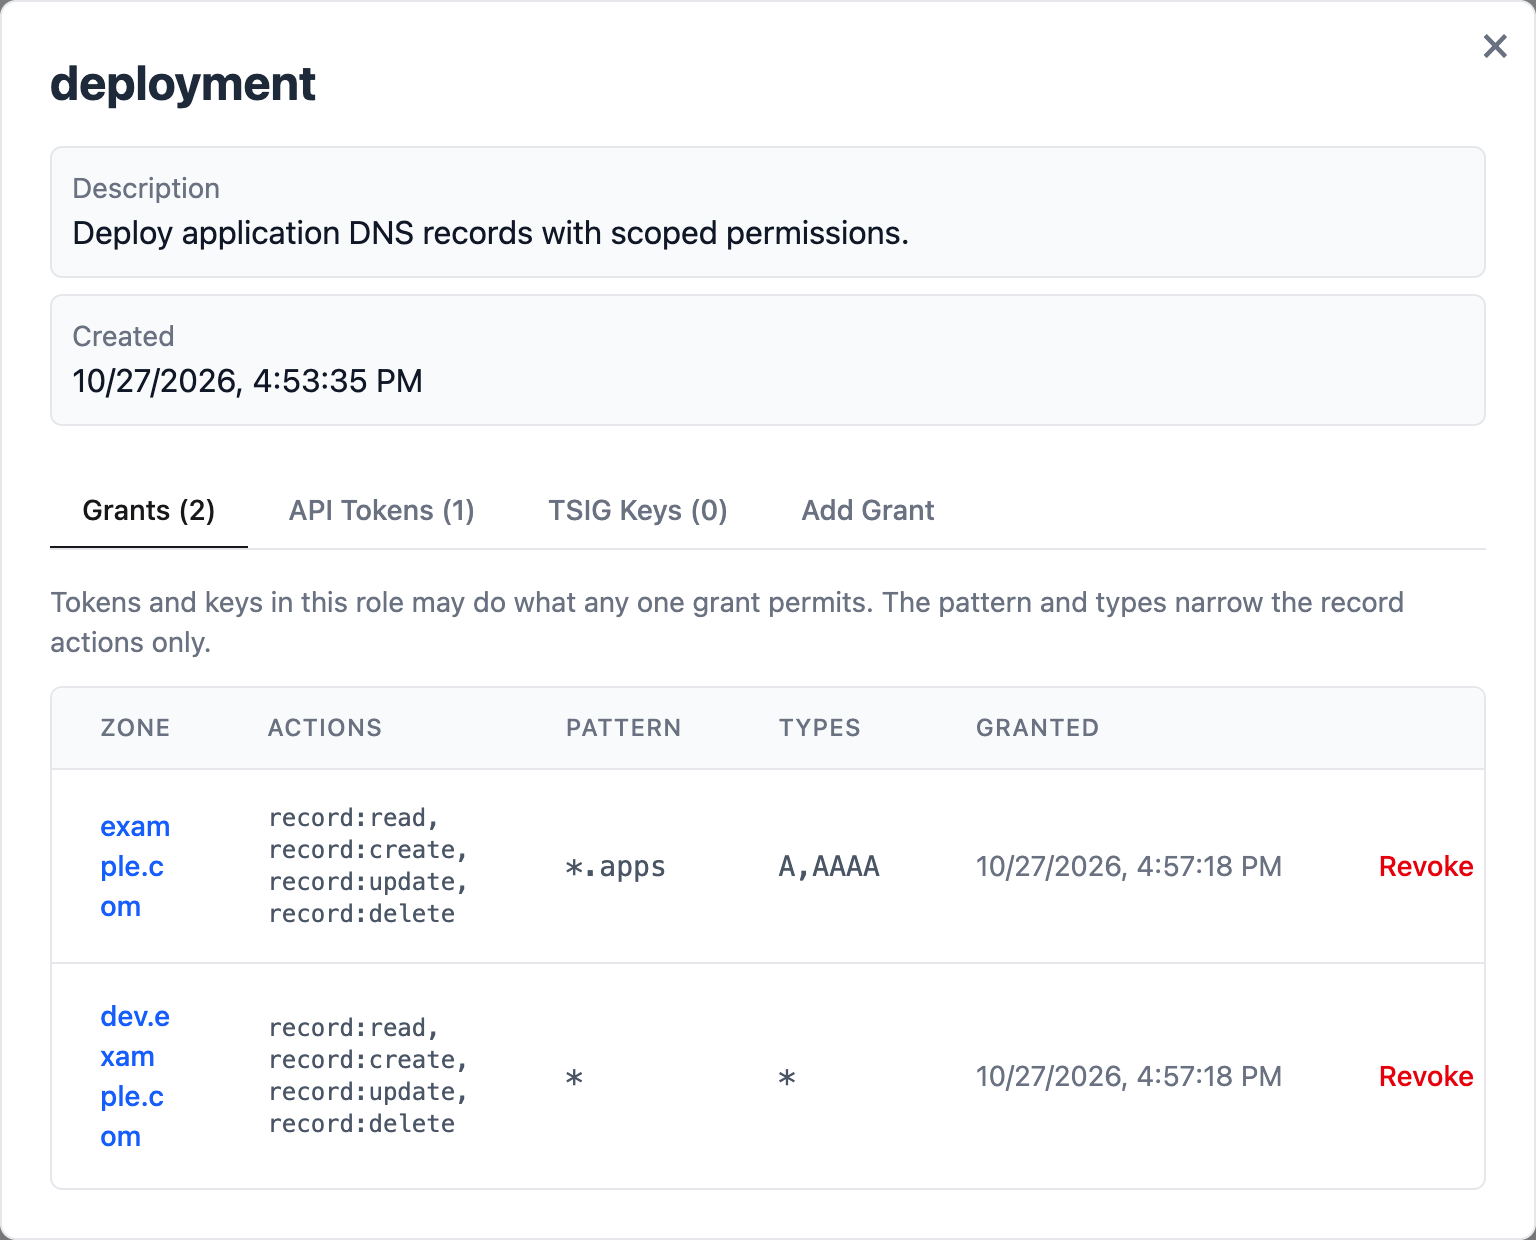
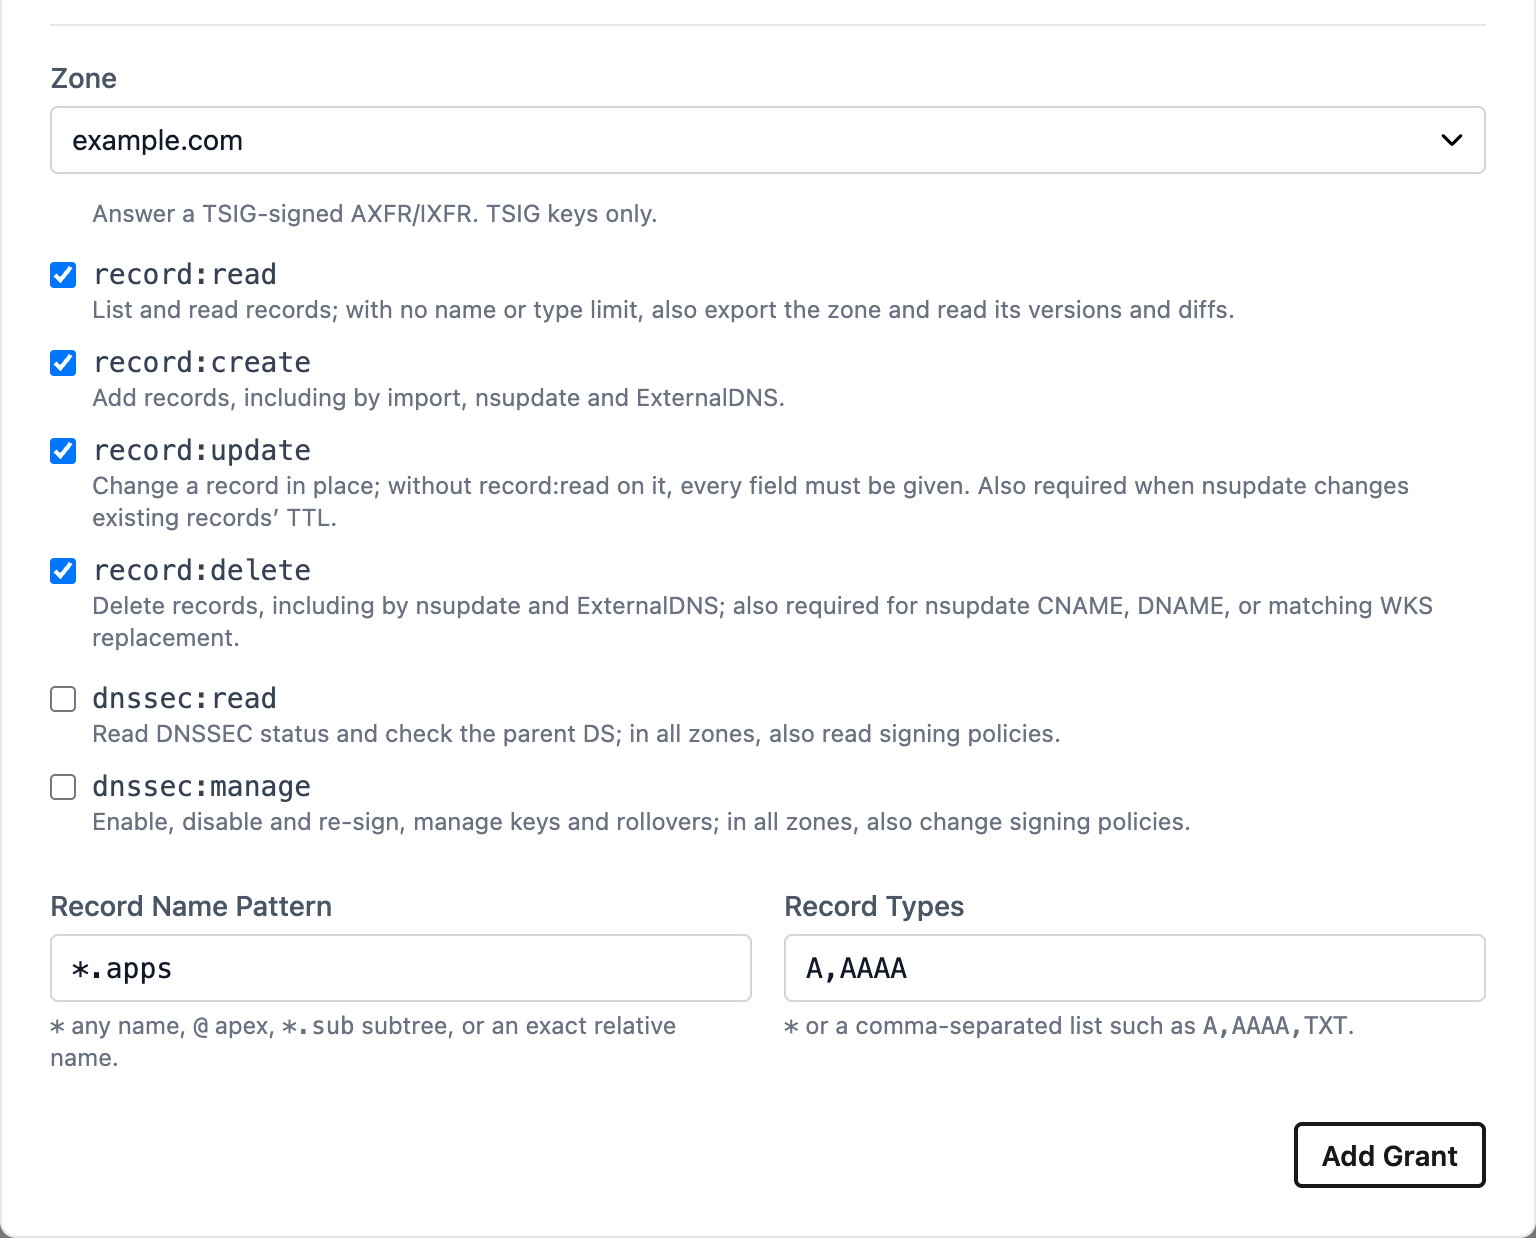
docs: guide role setup and credential management

diff --git a/README.md b/README.md
@@ -12,25 +12,25 @@
     </a>
 </p>
 
-A web interface for managing DNS zones, records, DNSSEC, and access permissions with [Bindizr](https://github.com/kweonminsung/bindizr).
+A web interface for [Bindizr](https://github.com/kweonminsung/bindizr): manage DNS zones and records, sign and synchronize zones, and delegate access through roles.
 
-[Features](#features) · [Run with Docker](#run-with-docker) · [Getting Started](#getting-started)
+[Features](#features) · [Roles and credentials](#roles-and-credentials) · [Audit log](#audit-log) · [Run with Docker](#run-with-docker) · [Getting Started](#getting-started)
 
 <img src="public/screenshots/zones.png" alt="Zone list with DNSSEC and disabled badges, search, filters, and record, import, and export actions" width="1000" />
 
 ## Features
 
-Screenshots show a running instance with example data.
+Work with DNS data in **Zones** and **Records**, then manage signing in **DNSSEC** and propagation in **Secondaries**. Use [roles](#roles-and-credentials) to delegate these operations and the [audit log](#audit-log) to review administrative changes. Screenshots show a running instance with example data.
 
 ### Zone and record management
 
-Create and edit zones and records, configure SOA settings and TTLs, and inspect generated DNSSEC records. Search, filter, and sort listings by zone, record type, and other fields.
+Create zones, configure their SOA settings, and manage records and TTLs. Search, filter, and sort the listings, or include generated DNSSEC records when inspecting a signed zone.
 
 <img src="public/screenshots/records.png" alt="Records for example.com, including IPv4, IPv6, mail, TXT, and alias records, with zone and type filters" width="1000" />
 
 ### Zone import and export
 
-Import BIND zone files or transfer records over AXFR using **append**, **upsert**, or **replace**, with dry-run validation, one zone at a time or every zone a server lists or its catalog zone names. Copy or download exports, optionally including DNSSEC records.
+Bring in a BIND zone file, a zone over AXFR, or multiple zones from a server or catalog. Validate **append**, **upsert**, or **replace** imports before applying them, and copy or download exports with or without DNSSEC records.
 
 <img src="public/screenshots/import-preview.png" alt="A dry-run zone import validating three new records without applying changes" width="384" />
 
@@ -42,51 +42,72 @@ Review changes by SOA serial and author, compare record differences, and preview
 
 ### DNSSEC signing and policies
 
-See every signed zone's state at a glance, apply reusable signing policies, monitor signatures, and manage key rollovers. Copy DS records for the parent zone, check their publication, or trigger re-signing.
+Use the DNSSEC overview to check signed zones, then open a zone to inspect its signatures and keys. Apply reusable signing policies, manage rollovers, and copy or check the DS records published by the parent zone.
 
 <img src="public/screenshots/dnssec.png" alt="DNSSEC status for example.com with signature counts, expiry, next re-signing time, and a DS record to copy" width="560" />
 
-### Roles, API tokens and zone permissions
+### Secondary synchronization
 
-Group permissions into roles: grant actions such as `record:create` or `zone:transfer` in one zone or all zones, narrowing record actions by record-name pattern and record type. API tokens, with optional expiry, act under the role they are created in.
-
-<img src="public/screenshots/role-grants.png" alt="A deployment role with record permissions scoped to example.com and dev.example.com, held by one API token" width="560" />
-
-### TSIG keys for updates and transfers
-
-Generate or import TSIG keys for dynamic updates or zone transfers, each acting under a role, and reveal or copy existing secrets when needed.
-
-<img src="public/screenshots/tsig-key-role.png" alt="A TSIG key with its secret masked and permissions inherited from the zone-transfers role" width="560" />
-
-### Secondaries
-
-Register the servers Bindizr feeds by name and address. Pause one without forgetting it, and pick a TSIG key to sign the NOTIFY it receives.
+Register secondary servers, select a TSIG key for signed NOTIFY, and pause a server without removing it. Check serials and reachability, inspect AXFR/IXFR transfer history, or send NOTIFY for one or all zones, optionally advancing the serial.
 
 <img src="public/screenshots/secondaries.png" alt="Secondary list: one server signing NOTIFY under a TSIG key, one registered by hostname, and a disabled standby" width="1000" />
 
-### Secondary synchronization
+## Roles and credentials
 
-Check secondary serials and reachability. Send DNS NOTIFY for one or all zones, optionally bumping the serial to trigger a transfer.
+Roles hold permissions; API tokens and TSIG keys act under a role. Start in **Access → Roles**, define what a role may do, then issue the credentials that will use those permissions.
 
-### Audit log
+### 1. Create a role for each purpose
 
-See who created, changed or deleted a token, role, grant, TSIG key, secondary or DNSSEC policy, or deleted a zone, and when, narrowed by entity, name and date. Reading it takes the `audit:read` action; a zone's own changes are in its versions.
+Separate application deployments from secondary transfers with roles such as `deployment` and `zone-transfers`. The list shows each role's grant, token and key counts; a new role permits nothing until grants are added.
+
+<img src="public/screenshots/roles.png" alt="Roles list separating the built-in admin role, application deployment permissions, and secondary zone transfers, with grant and credential counts" width="1000" />
+
+### 2. Grant only the required actions
+
+Open the role's **Add Grant** tab and choose actions for one zone or all zones. Record grants can also restrict names and types: this example allows `A` and `AAAA` records under `*.apps` in `example.com`.
+
+<img src="public/screenshots/role-grants.png" alt="Adding a deployment grant for example.com, with record read, create, update and delete actions restricted to the *.apps name pattern and A or AAAA records" width="560" />
+
+### 3. Issue tokens and keys in that role
+
+Use the role's **API Tokens** and **TSIG Keys** tabs to create and review its credentials. Changing the role's grants changes what those credentials may do.
+
+<img src="public/screenshots/role-tokens.png" alt="The deployment role's API Tokens tab showing its ci-deploy token alongside the Grants, TSIG Keys and Add Grant tabs" width="560" />
+
+<details>
+<summary>API token creation and TSIG key details</summary>
+
+API tokens can expire; their secret is shown only when created. Creating one from a role fixes the role selection for you.
+
+<img src="public/screenshots/api-token-role.png" alt="Creating ci-deploy with a 90-day expiry and the deployment role already selected" width="384" />
+
+Generate or import TSIG keys for dynamic updates and zone transfers. Existing key secrets can be revealed or copied, and the key's details link back to role management.
+
+<img src="public/screenshots/tsig-key-role.png" alt="A TSIG key with its secret masked and permissions inherited from the zone-transfers role" width="560" />
+
+</details>
+
+## Audit log
+
+Review role, grant and credential changes alongside secondary and DNSSEC policy administration, filtered by entity, name or date. Reading the log requires `audit:read`; zone and record edits remain in the zone's version history.
+
+<img src="public/screenshots/audit-log.png" alt="Audit log showing role grants, API token and TSIG key creation, with the acting token and source of each change" width="1000" />
 
 ## Run with Docker
 
 ```bash
-$ docker run -d --name bindizr-ui -p 9000:9000 kweonminsung/bindizr-ui:0.1.0
+docker run -d --name bindizr-ui -p 9000:9000 kweonminsung/bindizr-ui:0.1.0
 ```
 
 Or with Docker Compose:
 
 ```bash
-$ docker compose up -d
+docker compose up -d
 ```
 
 Then open <http://localhost:9000>.
 
-Run Bindizr separately. Enter its URL as reachable from the UI server, provide an API token if required, and test the connection. Optionally create a UI admin account.
+Run Bindizr separately. In the setup screen, enter its URL as reachable from the UI server, provide an API token if required, and test the connection. The token's role determines the available pages and actions; an optional UI admin account protects access to this UI instance.
 
 A `v*` tag, or the Manual Release workflow, builds and pushes the amd64 and
 arm64 image; the Publish Image workflow pushes it under a tag you enter. To
@@ -94,34 +115,40 @@ push it from your own machine instead (the tag defaults to the version in
 `ui/package.json`; `IMAGE` overrides the repository):
 
 ```bash
-$ ./scripts/build_image.sh
+./scripts/build_image.sh
 ```
 
 ## Getting Started
 
-1. **Build and install dependencies:**
+Run these commands from the repository root.
+
+1. **Install dependencies and create the initial frontend build:**
 
    ```bash
-   # Install Go dependencies
-   $ go mod download
-
-   # Install Node.js dependencies
-   $ cd ui
-   $ npm install
+   go mod download
+   npm --prefix ui ci
+   npm --prefix ui run build
    ```
 
-2. **Start development server:**
+2. **Start Vite in one terminal:**
 
    ```bash
-   # Start dev server(default port: 9000)
-   $ GO_ENV=development go run main.go
+   npm --prefix ui run dev
    ```
+
+3. **Start the Go server in another terminal:**
+
+   ```bash
+   GO_ENV=development go run .
+   ```
+
+Open <http://localhost:9000>. The Go server forwards frontend requests to Vite on port 9001 and handles the local API and Bindizr proxy.
 
 ## Dependencies
 
-- [Go](https://golang.org/) v1.26 or higher
+- [Go](https://golang.org/) v1.27.3 or higher
 - [Sqlite3](https://sqlite.org/)
-- [Node.js](https://nodejs.org) v20 or higher
+- [Node.js](https://nodejs.org) v24 or higher
 - [React](https://reactjs.org/) v19
 - [Tailwind CSS](https://tailwindcss.com/) v4
 - [Bindizr](https://github.com/kweonminsung/bindizr)
